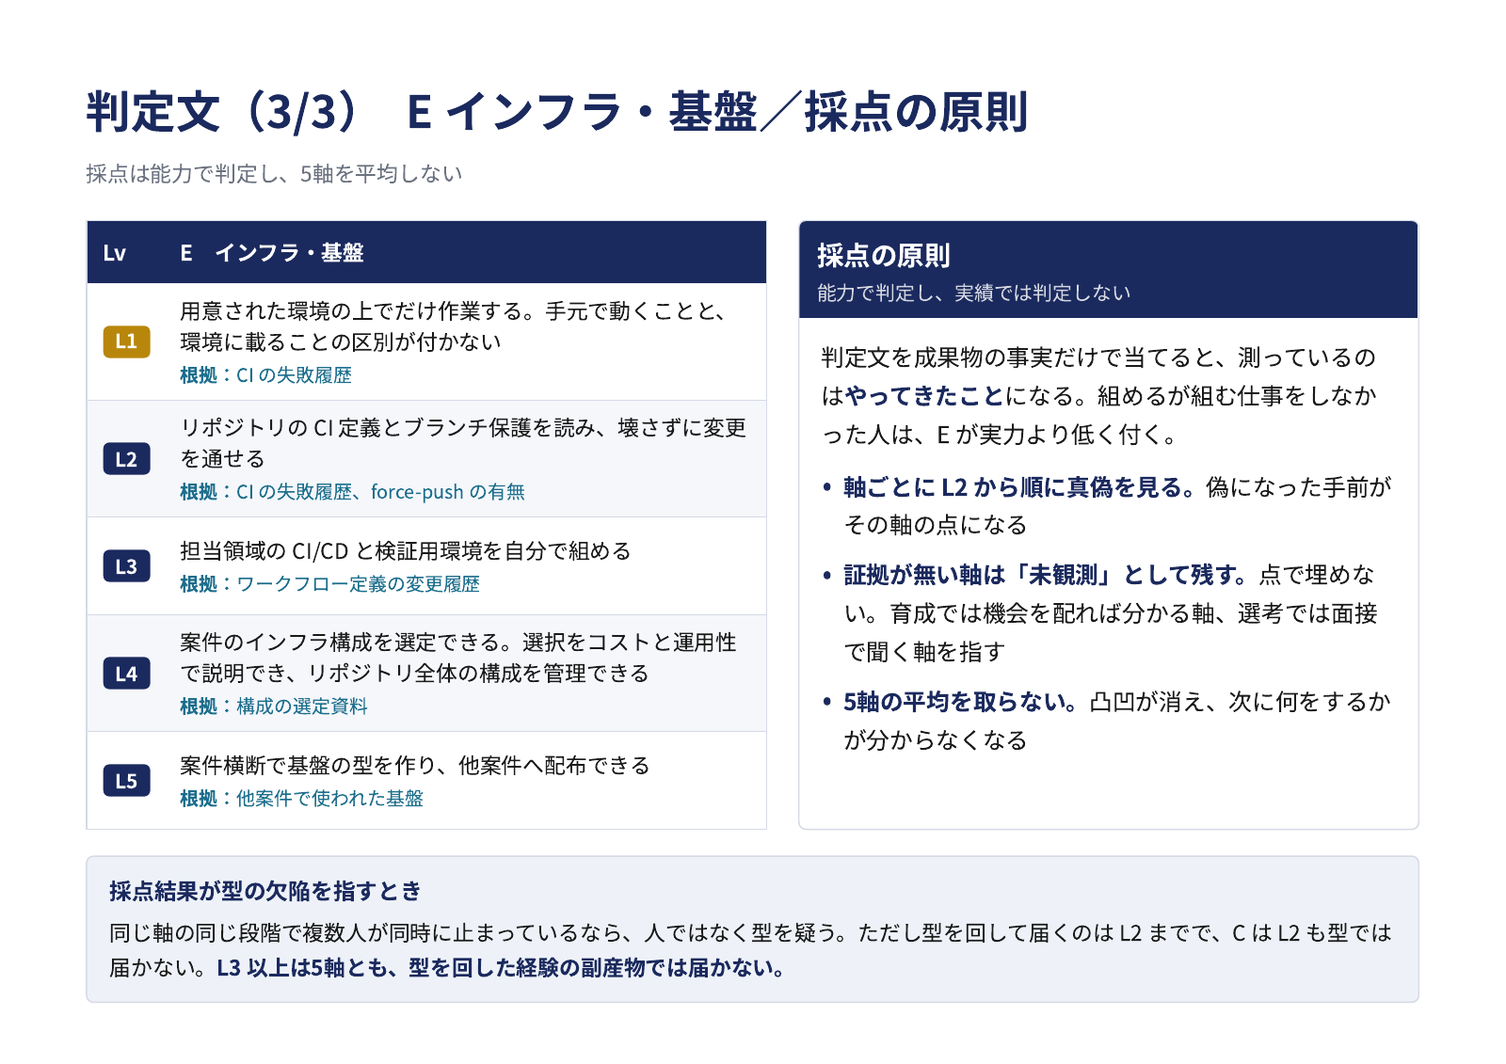
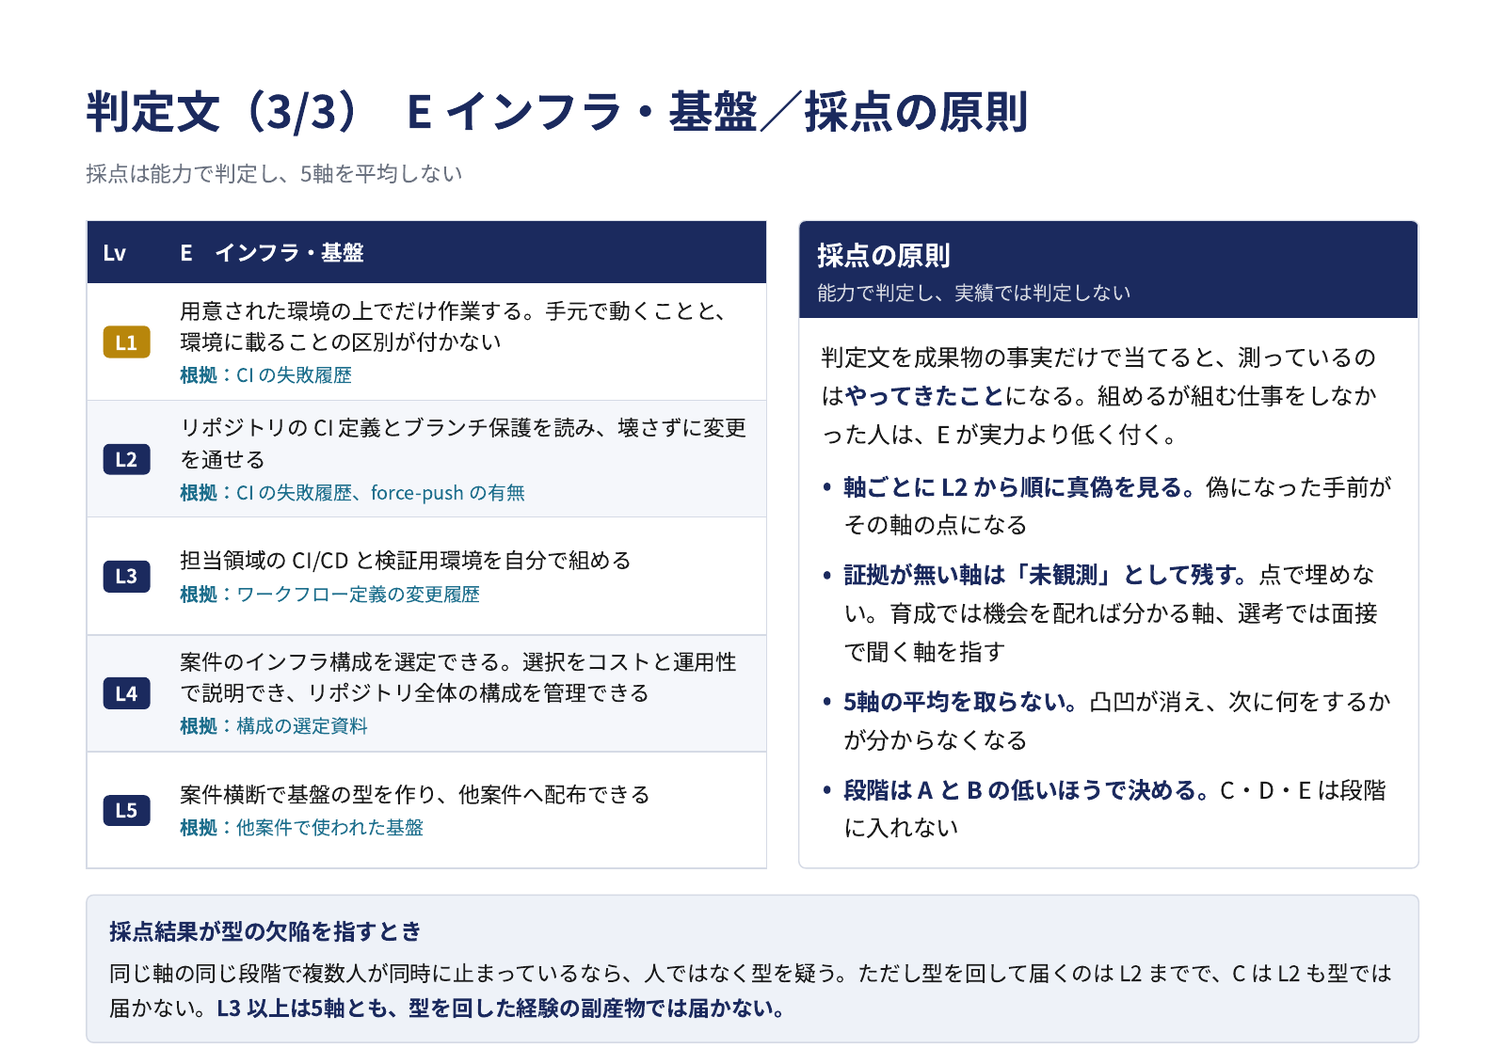
Define a person's level as the lower of A and B
1人の段階を、A と B の低いほうで決める規則を ladder.md の「段階」に置いた。委任範囲は依頼元に対して任せられる部分（A）と、チームの型の中で任せられる部分（B）からできているため。C・D・E は段階に入れない。

- scoring.md の手順に段階を決める手順を足し、選考で最も低い軸を取るとしていた記述を消した（C が低い候補者の段階が頭打ちになっていた）
- L4 の委任範囲と A4 を「持った領域」にそろえ、案件全体の課題管理を A5 へ移した
- L3 のペルソナを A3 にし、personas.md の節を「この5人を設定した理由」に書き換えた
- 採点 skill と結果の書式に段階を足し、スライドの PNG を作り直した

diff --git a/ladder/slides.html b/ladder/slides.html
@@ -130,7 +130,7 @@ li::before{ content:""; position:absolute; left:.4mm; top:calc(.5lh - .75mm);
     <div class="uses">
       <div class="use"><div class="n">評価<span>いまどこにいるか</span></div>
         <dl><dt>材料</dt><dd>リポジトリの成果物と、型を回した記録</dd>
-            <dt>結果</dt><dd>5軸それぞれの段階。証拠が無い軸は「未観測」</dd></dl></div>
+            <dt>結果</dt><dd>5軸それぞれの点と、A と B の低いほうで決める段階。証拠が無い軸は「未観測」</dd></dl></div>
       <div class="use"><div class="n">育成<span>次に何を伸ばすか</span></div>
         <dl><dt>材料</dt><dd>評価で付いた5軸の段階</dd>
             <dt>結果</dt><dd>最も低い1軸と、それに対応する手順。回した成果物が次の評価の材料になる</dd></dl></div>
@@ -184,7 +184,7 @@ li::before{ content:""; position:absolute; left:.4mm; top:calc(.5lh - .75mm);
         <tr><td><span class="lv out">L1</span></td><td>標準化の外。単位作業を指示され、成果物はレビューで書き直される</td></tr>
         <tr><td><span class="lv">L2</span></td><td>標準化されたワークフローを理解し、単位作業をレビュー前提でやり切る</td></tr>
         <tr><td><span class="lv">L3</span></td><td>担当領域を自走する</td></tr>
-        <tr><td><span class="lv">L4</span></td><td>案件の一領域を依頼元との接点ごと持ち、進捗と品質を自分で管理する</td></tr>
+        <tr><td><span class="lv">L4</span></td><td>案件の一領域を依頼元との接点ごと持ち、課題と進捗を自分で管理する</td></tr>
         <tr><td><span class="lv">L5</span></td><td>案件全体の設計・推進を担い、依頼元の課題設定に関与する。得た型を他の案件へ渡す</td></tr>
       </tbody>
     </table>
@@ -195,7 +195,7 @@ li::before{ content:""; position:absolute; left:.4mm; top:calc(.5lh - .75mm);
       <div class="callout"><div class="t">L2 は型を理解すれば届く</div>判定文は型が実際に強制するものだけで書いてある。理解した人が届かないなら、<b>直すのは人ではなく判定文か型の側</b>である。</div>
       <div class="callout"><div class="t">L5 の行は到達点</div>5本がすべて真になる人を探すためではなく、<b>どの軸がどれだけ足りないか</b>を言うために使う。</div>
     </div>
-    <div class="note">※ 報酬帯との対応は持たない。段階と報酬の結び付け方は各社で違い、評価基準の側に固定すると持ち込めなくなる。</div>
+    <div class="note">※ 1人の段階は A と B の低いほうで決める。依頼元に対して任せられる部分を A、チームの型の中で任せられる部分を B が測る。<br>※ 報酬帯との対応は持たない。段階と報酬の結び付け方は各社で違い、評価基準の側に固定すると持ち込めなくなる。</div>
   </div>
 </section>
 
@@ -213,8 +213,8 @@ li::before{ content:""; position:absolute; left:.4mm; top:calc(.5lh - .75mm);
           <tr><td><span class="lv out">L1</span></td><td>渡された要件にそのまま着手する。曖昧さは実装が止まる形で表面化する<div class="src">着手後に要件を問い直した回数</div></td></tr>
           <tr><td><span class="lv">L2</span></td><td>着手前に出口と順序を書ける。完了条件が書けないことで、要件の曖昧さが着手前に自分に見える<div class="src"><code>PLAN.md</code> の出口の節</div></td></tr>
           <tr><td><span class="lv">L3</span></td><td>性能・運用・移行の欠落を要件に対して指摘できる。設計を非開発者に読める資料にでき、課題を先出しして進捗を自分で管理する<div class="src">設計資料、Issue や PR の課題提起</div></td></tr>
-          <tr><td><span class="lv">L4</span></td><td>依頼元への提案資料と見積の根拠を自分で組める。社内の非開発者と要件を共有し、案件全体の課題管理と期待値調整ができる<div class="src">提案資料、見積の内訳</div></td></tr>
-          <tr><td><span class="lv">L5</span></td><td>依頼元の課題設定に関与し、提示された要件を組み替えて提案できる。複数案件にまたがる関係を作れる<div class="src">提案の採否と、要件が組み替わった記録</div></td></tr>
+          <tr><td><span class="lv">L4</span></td><td>持った領域について、依頼元への提案資料と見積の根拠を自分で組める。社内の非開発者と要件を共有し、領域の課題管理と期待値調整ができる<div class="src">提案資料、見積の内訳</div></td></tr>
+          <tr><td><span class="lv">L5</span></td><td>案件全体の課題管理と期待値調整を担う。依頼元の課題設定に関与し、提示された要件を組み替えて提案できる。複数案件にまたがる関係を作れる<div class="src">提案の採否と、要件が組み替わった記録</div></td></tr>
         </tbody>
       </table>
       <table class="eq" style="flex:1">
@@ -289,6 +289,7 @@ li::before{ content:""; position:absolute; left:.4mm; top:calc(.5lh - .75mm);
             <li><b>軸ごとに L2 から順に真偽を見る。</b>偽になった手前がその軸の点になる</li>
             <li><b>証拠が無い軸は「未観測」として残す。</b>点で埋めない。育成では機会を配れば分かる軸、選考では面接で聞く軸を指す</li>
             <li><b>5軸の平均を取らない。</b>凸凹が消え、次に何をするかが分からなくなる</li>
+            <li><b>段階は A と B の低いほうで決める。</b>C・D・E は段階に入れない</li>
           </ul>
         </div>
       </div>
@@ -323,12 +324,12 @@ li::before{ content:""; position:absolute; left:.4mm; top:calc(.5lh - .75mm);
           <td>指示された手順を回して標準の形の成果物を出す。入ってから日が浅く、担当機能の前後の業務は答えられない。</td>
           <td>単位作業を、完了条件だけ渡してレビュー前提で</td></tr>
         <tr><td><span class="lv">L3</span></td>
-          <td class="num">2</td><td class="num">3</td><td class="num">2</td><td class="num">3</td><td class="num">2</td>
-          <td>中途で入って半年。回す手順を自分で選び、テストの欠落を指摘する。要件そのものへの指摘はまだ出ない。</td>
+          <td class="num">3</td><td class="num">3</td><td class="num">2</td><td class="num">3</td><td class="num">2</td>
+          <td>中途で入って半年。回す手順を自分で選び、要件の欠落とテストの欠落を指摘する。提案資料や見積はまだ組まない。</td>
           <td>担当領域。進め方を渡さず、結果だけ見る</td></tr>
         <tr><td><span class="lv">L4</span></td>
           <td class="num">4</td><td class="num">4</td><td class="num">4</td><td class="num">3</td><td class="num">3</td>
-          <td>業務側に長く入り、依頼元と開発者が同じ言葉で話せる状態を作る。案件全体のリリース判定までは持たない。</td>
+          <td>業務側に長く入り、依頼元と開発者が同じ言葉で話せる状態を作る。案件全体のリリース判定までは担わない。</td>
           <td>案件の一領域を、依頼元との接点ごと</td></tr>
         <tr><td><span class="lv">L5</span></td>
           <td class="num">5</td><td class="num">5</td><td class="num">4</td><td class="num">5</td><td class="num">4</td>
@@ -338,8 +339,8 @@ li::before{ content:""; position:absolute; left:.4mm; top:calc(.5lh - .75mm);
     </table>
   </div>
   <div class="foot"><div class="callout">
-    <div class="t">この5人から分かること</div>
-    代表段階は5人とも<b>A と B の高いほう</b>に一致する。最も低い軸を取る規則にすると L1 以外の全員が下がる。最も低い軸を取るのは、次に上げる1軸を決めるときだけである。<b>C は段階に連動しない</b>（L1 が3、L2 が1、L3 が2）。型に乗れるかと依頼元の業務を知っているかは互いに独立で、在籍の長さが関わるのは C の側だけである。
+    <div class="t">この5人を設定した理由</div>
+    <b>段階は、A と B の低いほうに一致させた。</b>規則を当てたとき、迷わず1つの段階に決まる例にするためである。<b>C は段階の順に並べなかった</b>（L1 が3、L2 が1、L3 が2）。在籍の長さが C にだけ関わることを示すためである。<b>L4 の D と E は3にした。</b>段階が同じでも、向く案件がこの2軸で変わることを示すためである。
   </div></div>
 </section>
 

diff --git a/ladder/docs/personas.md b/ladder/docs/personas.md
@@ -43,17 +43,18 @@
 
 | A | B | C | D | E |
 |---|---|---|---|---|
-| 2 | 3 | 2 | 3 | 2 |
+| 3 | 3 | 2 | 3 | 2 |
 
 中途で入って半年。前職で実装を長くやってきたので、回す手順を自分で選び、噛み合わない作業は
-手で進める判断ができる。担当領域の公開面に対する保証を自分で列挙して、テストの欠落を
-指摘する。要件そのものへの指摘はまだ出ず、渡された要件の中で最善を出す形に留まる。
+手で進める判断ができる。要件に対しては性能・運用・移行の欠落を指摘し、課題を先に出して
+進捗を自分で管理する。依頼元への提案資料や見積はまだ組まない。担当領域の公開面に対する
+保証を自分で列挙して、テストの欠落を指摘する。
 依頼元の業務は担当機能の前後までで、現行システムの全体像は持っていない。CI 定義は読めて
 壊さずに変更を通せるが、検証用環境を自分で組み立てるところまでは行かない。
 
 - **任せられる範囲**: 担当領域。進め方を渡さず、結果だけ見る
 - **成果物**: 検証の設計まで自分で書く
-- **レビューで返るもの**: 要件の解釈。何を作るかの手前でずれる
+- **レビューで返るもの**: 依頼元へどう出すか。提案と見積はこちらで組む
 
 ## L4
 
@@ -64,7 +65,7 @@
 業務側に長く入ってきた人である。現行業務を洗い出して矛盾と非効率を指摘し、依頼元と開発者が
 同じ言葉で話せる状態を作る。提案資料と見積の根拠を自分で組み、営業と要件を共有する。
 既存の型の欠落を直し、要ると見れば作ってチームに使わせる。担当領域の CI/CD と検証用環境は
-自分で組める。案件全体のリリース判定までは持たない。
+自分で組める。案件全体のリリース判定までは担わない。
 
 - **任せられる範囲**: 案件の一領域を、依頼元との接点ごと
 - **成果物**: 業務フローと課題の一覧が、実装の成果物と並んで出てくる
@@ -87,17 +88,15 @@
 - **成果物**: 型と品質基準が、他の案件が下敷きにできる形で出る
 - **レビューで返るもの**: 会社としての方針との整合
 
-## この5人から分かること
+## この5人を設定した理由
 
-**代表段階は、5人とも A と B の高いほうに一致する。** 最も低い軸を取る規則にすると
-L1 以外の全員が下がる。最も低い軸を取るのは**次に上げる1軸**を決めるときだけで、
-**その人を1つの段階で呼ぶ**ときは A と B の高いほうを取る。
+**段階は A と B の低いほうに一致させた。** 段階の決め方（[ladder.md](ladder.md) の「段階」）を
+当てたとき、迷わず1つに決まる例にするためである。
 
-**C は段階に連動しない。** L1 が3、L2 が1、L3 が2 で、段階の順に並ばない。配られた型に
-乗れるかと、依頼元の業務を知っているかは互いに独立で、在籍の長さが関わるのは C の側だけである。
-C を代表段階の材料に入れると、長くいる人に実態より高い段階が付く。
+**C は段階の順に並べなかった。** L1 が3、L2 が1、L3 が2 である。同じ依頼元を長く見てきた L1 と、
+入ったばかりの L2 を置いたのは、在籍の長さが C にだけ関わることを示すためである。
 
-**凸凹の幅は段階に連動しない。** 2段の開きを持つのは L1 だけで、L2 以上の4人は1段に収まる。
-段階が上がって低い軸が無くなるのではなく、低い軸の位置が変わる。
+**L4 の D と E は3にした。** 案件全体のリリース判定を担わない L4 を置いたのは、段階が同じでも
+D と E で向く案件が変わることを示すためである。
 
 自社で採点した人数が増え、実在の分布のほうが評価基準として正確になったら、この5人は使わない。

diff --git a/ladder/docs/ladder.md b/ladder/docs/ladder.md
@@ -18,8 +18,13 @@
 | L1 | 標準化の外。単位作業を指示され、成果物はレビューで書き直される |
 | L2 | 標準化されたワークフローを理解し、単位作業をレビュー前提でやり切る |
 | L3 | 担当領域を自走する |
-| L4 | 案件の一領域を依頼元との接点ごと持ち、進捗と品質を自分で管理する |
+| L4 | 案件の一領域を依頼元との接点ごと持ち、課題と進捗を自分で管理する |
 | L5 | 案件全体の設計・推進を担い、依頼元の課題設定に関与する。得た型を他の案件へ渡す |
+
+**1人の段階は A と B の低いほうで決める。** 委任範囲は依頼元に対して任せられる部分と、
+チームの型の中で任せられる部分からできている。前者を A、後者を B が測り、どちらかが低ければ
+その高さまでしか任せられない。C・D・E は段階に入れない。C は在籍の長さで上がるので、入れると
+長くいる人に実態より高い段階が付く。D と E は案件の構成で求められる高さが変わるので、配置のときに見る。
 
 **L1 は標準化の外に置いてある。** 型を渡しても回せず、個人の書き方で成果物を出す状態が
 ここに当たる。L1 から L2 へは、型を渡して回させれば上がれる。
@@ -60,8 +65,8 @@
 | L1 | 渡された要件にそのまま着手する。曖昧さは実装が止まる形で表面化する | 着手後に要件を問い直した回数 |
 | L2 | `PLAN.md` に出口と順序を書ける。完了条件が書けないことで、要件の曖昧さが着手前に自分に見える | `PLAN.md` の出口の節 |
 | L3 | 性能・運用・移行の欠落を要件に対して指摘できる。担当領域の設計を非開発者に読める資料にでき、課題を先出しして進捗を自分で管理する | 設計資料、Issue や PR の課題提起 |
-| L4 | 依頼元への提案資料と見積の根拠を自分で組める。営業など社内の非開発者と要件を共有し、案件全体の課題管理と期待値調整ができる | 提案資料、見積の内訳 |
-| L5 | 依頼元の課題設定に関与し、提示された要件を組み替えて提案できる。複数案件にまたがる関係を作れる | 提案の採否と、要件が組み替わった記録 |
+| L4 | 持った領域について、依頼元への提案資料と見積の根拠を自分で組める。営業など社内の非開発者と要件を共有し、領域の課題管理と期待値調整ができる | 提案資料、見積の内訳 |
+| L5 | 案件全体の課題管理と期待値調整を担う。依頼元の課題設定に関与し、提示された要件を組み替えて提案できる。複数案件にまたがる関係を作れる | 提案の採否と、要件が組み替わった記録 |
 
 ## B 標準化されたワークフローの運用
 

diff --git a/ladder/.claude/skills/ladder-score/SKILL.md b/ladder/.claude/skills/ladder-score/SKILL.md
@@ -1,6 +1,6 @@
 ---
 name: ladder-score
-description: リポジトリの成果物から1人を採点し、5軸の点と「次に上げる1軸」を出す。「採点して」「現在地を見たい」と言われたときに使う。判定の正本は docs/ladder.md。
+description: リポジトリの成果物から1人を採点し、5軸の点・段階・「次に上げる1軸」を出す。「採点して」「現在地を見たい」と言われたときに使う。判定の正本は docs/ladder.md。
 disable-model-invocation: true
 ---
 
@@ -8,8 +8,8 @@ disable-model-invocation: true
 
 [docs/ladder.md](../../../docs/ladder.md) の判定文を、実際のリポジトリに当てる。
 
-出すのは5軸の点と、**次に上げる1軸**である。総合点も順位も出さない。平均を取ると凸凹が
-消えて、次に何をするかが出なくなる。
+出すのは5軸の点、段階、**次に上げる1軸**である。総合点と順位は出さない。平均を取ると凸凹が
+消えて、次に何をするかが分からなくなる。
 
 **判定文を暗記や印象で当てない。** 各セルには「読むもの」が書いてある。それを開き、
 開いた結果を根拠として引く。根拠を引けない軸は点を付けず、未観測として残す。
@@ -63,14 +63,19 @@ gh pr view <番号> --json title,body,commits --jq '{title, body, n: (.commits|l
 機会が無くてやっていないことを低い点にすると、育成では打つ手を間違え、選考では取り逃す。
 未観測は、育成では機会を配れば分かる軸、選考では面接で聞く軸を指す。
 
-## 5. 次に上げる1軸を決める
+## 5. 段階を決める
+
+**A と B の低いほうを取る。** 理由は [docs/ladder.md](../../../docs/ladder.md) の「段階」にある。
+A か B が未観測なら、段階は付けずに未観測と書く。
+
+## 6. 次に上げる1軸を決める
 
 **最も低い軸を取る。** 未観測は選ばない。同点が並んだら、案件が先に要求する側を取る。
 
 決めたら、その軸を上げるために回す手順を1つ挙げる。教育メニューを別に作らない。
 型を回して出てくる成果物が、次の採点の証拠になる。
 
-## 6. 結果を書く
+## 7. 結果を書く
 
 書式は [reference/scoresheet-template.md](reference/scoresheet-template.md) にある。
 

diff --git a/ladder/docs/scoring.md b/ladder/docs/scoring.md
@@ -1,6 +1,6 @@
 # 採点する
 
-1人を採点し、次に上げる軸を1つ決めるまでの手順である。
+1人を採点し、段階と次に上げる1軸を決めるまでの手順である。
 
 ## 手順
 
@@ -8,7 +8,8 @@
    どこを開くかを指している。L2 が真なら L3 へ進み、偽になった手前がその軸の点になる
 2. **証拠が無い軸は「未観測」として残す。** 点で埋めない
 3. **5軸の点を並べる。** 揃わないのが普通である
-4. **最も低い軸を、次に上げる1軸にする。** 未観測は選ばない
+4. **A と B の低いほうを段階にする。** 理由は [ladder.md](ladder.md) の「段階」にある。A か B が未観測なら段階は付けない
+5. **最も低い軸を、次に上げる1軸にする。** 未観測は選ばない
 
 ## 未観測を点で埋めない
 
@@ -20,13 +21,13 @@
 
 未観測は下限ではない。育成では機会を配れば分かる軸、選考では面接で聞く軸を指す。
 
-## 点から人のレベルを決めるとき
+## 用途ごとに見るもの
 
-5軸の点が揃わないとき、どこを取るかは用途で変わる。
+段階の決め方は用途によらず同じである。段階のほかに見る軸が用途で変わる。
 
-- **育成** — 最も低い軸を見る。次に上げる1軸がそのまま決まる
-- **配置** — 案件が要求する軸だけを見る。5軸の平均は取らない
-- **選考** — 最も低い軸を見る。ただし B は入社前に測れない
+- **育成**：手順5で決めた1軸を見る
+- **配置**：案件が要求する軸を見る。段階が同じでも、D と E の高さで向く案件が変わる
+- **選考**：段階と、埋めたい軸を見る。B は入社前に測れないので見込みで置く
 
 平均を取ると、凸凹が消えて「次に何をするか」が分からなくなる。点は順位付けではなく、
 どの軸が足りないかを見るために置いてある。

diff --git a/README.md b/README.md
@@ -66,7 +66,7 @@ cp mgmt-kit/ladder/docs/{ladder,scoring,hiring,adapt}.md ~/repos/target/docs/
 cp -r mgmt-kit/ladder/.claude/skills/ladder-score ~/repos/target/.claude/skills/
 ```
 
-出るのは5軸の点と次に上げる1軸である。**採点結果は既定でファイルに書かない**ので、
+採点結果は、5軸の点・段階・次に上げる1軸である。**採点結果は既定でファイルに書かない**ので、
 置き場と実名の扱いは、残すと決めた側が先に決める。
 
 ## usage：Claude Code の利用状況

diff --git a/ladder/.claude/skills/ladder-score/reference/scoresheet-template.md b/ladder/.claude/skills/ladder-score/reference/scoresheet-template.md
@@ -9,6 +9,10 @@
 |---|---|---|---|---|
 | L3 | L4 | 未観測 | L2 | L2 |
 
+## 段階
+
+**L3**（A の L3 と B の L4 の低いほう）
+
 ## 根拠
 
 ### A 上流・提案と関係者調整 — L3
